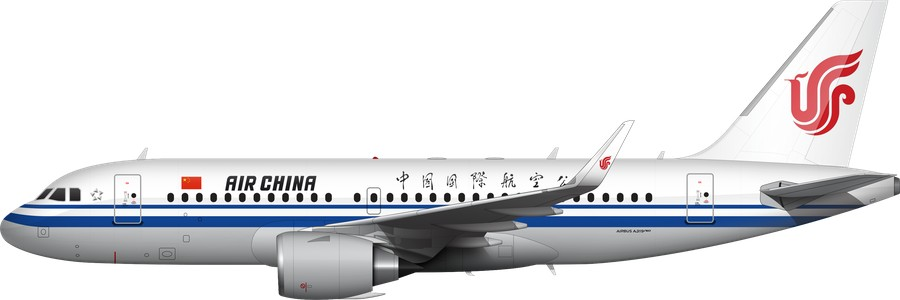
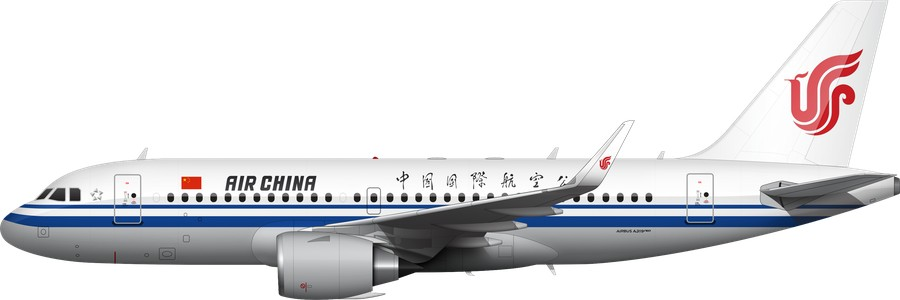
update overview

diff --git a/index.html b/index.html
@@ -38,7 +38,7 @@ button{font-family:inherit}.bar button{border:1px solid #bbb;background:#fff;bor
 <div class="card" data-key="Standard/Air China/Air China - 777-300ER" data-name="Air China 777-300ER" data-png="Liveries Done/Standard/Air China/Air China - 777-300ER/Air China_777-300ER.png" data-base="{&quot;status&quot;: &quot;完美&quot;, &quot;reason&quot;: &quot;&quot;, &quot;author&quot;: &quot;我們&quot;, &quot;note&quot;: &quot;&quot;}"><img loading="lazy" src="_work/overview_thumbs900/26700f4a390d.jpg?v=1795356114"><div class="t">777-300ER</div><span class="b"></span><span class="m r"></span><div class="m a"></div></div>
 <div class="card" data-key="Standard/Air China/Air China - 787-9" data-name="Air China 787-9" data-png="Liveries Done/Standard/Air China/Air China - 787-9/Air China_787-9.png" data-base="{&quot;status&quot;: &quot;完美&quot;, &quot;reason&quot;: &quot;&quot;, &quot;author&quot;: &quot;我們&quot;, &quot;note&quot;: &quot;&quot;}"><img loading="lazy" src="_work/overview_thumbs900/e3fb944b1b88.jpg?v=1795359505"><div class="t">787-9</div><span class="b"></span><span class="m r"></span><div class="m a"></div></div>
 <div class="card" data-key="Standard/Air China/Air China - A319" data-name="Air China A319" data-png="Liveries Done/Standard/Air China/Air China - A319/Air China_A319.png" data-base="{&quot;status&quot;: &quot;完美&quot;, &quot;reason&quot;: &quot;&quot;, &quot;author&quot;: &quot;我們&quot;, &quot;note&quot;: &quot;&quot;}"><img loading="lazy" src="_work/overview_thumbs900/897bd1e86140.jpg?v=1795389819"><div class="t">A319</div><span class="b"></span><span class="m r"></span><div class="m a"></div></div>
-<div class="card" data-key="Standard/Air China/Air China - A319neo" data-name="Air China A319neo" data-png="Liveries Done/Standard/Air China/Air China - A319neo/Air China_A319neo.png" data-base="{&quot;status&quot;: &quot;要處理&quot;, &quot;reason&quot;: &quot;gloss&quot;, &quot;author&quot;: &quot;我們&quot;, &quot;note&quot;: &quot;&quot;}"><img loading="lazy" src="_work/overview_thumbs900/ed9afbb7040e.jpg?v=1794734152"><div class="t">A319neo</div><span class="b"></span><span class="m r"></span><div class="m a"></div></div>
+<div class="card" data-key="Standard/Air China/Air China - A319neo" data-name="Air China A319neo" data-png="Liveries Done/Standard/Air China/Air China - A319neo/Air China_A319neo.png" data-base="{&quot;status&quot;: &quot;完美&quot;, &quot;reason&quot;: &quot;&quot;, &quot;author&quot;: &quot;我們&quot;, &quot;note&quot;: &quot;&quot;}"><img loading="lazy" src="_work/overview_thumbs900/ed9afbb7040e.jpg?v=1795428382"><div class="t">A319neo</div><span class="b"></span><span class="m r"></span><div class="m a"></div></div>
 <div class="card" data-key="Standard/Air China/Air China - A320" data-name="Air China A320" data-png="Liveries Done/Standard/Air China/Air China - A320/Air China_A320.png" data-base="{&quot;status&quot;: &quot;要處理&quot;, &quot;reason&quot;: &quot;gloss&quot;, &quot;author&quot;: &quot;我們&quot;, &quot;note&quot;: &quot;&quot;}"><img loading="lazy" src="_work/overview_thumbs900/9333b53215df.jpg?v=1794734152"><div class="t">A320</div><span class="b"></span><span class="m r"></span><div class="m a"></div></div>
 <div class="card" data-key="Standard/Air China/Air China - A320neo" data-name="Air China A320neo" data-png="Liveries Done/Standard/Air China/Air China - A320neo/Air China_A320neo.png" data-base="{&quot;status&quot;: &quot;要處理&quot;, &quot;reason&quot;: &quot;gloss&quot;, &quot;author&quot;: &quot;我們&quot;, &quot;note&quot;: &quot;&quot;}"><img loading="lazy" src="_work/overview_thumbs900/47404ba12896.jpg?v=1794734152"><div class="t">A320neo</div><span class="b"></span><span class="m r"></span><div class="m a"></div></div>
 <div class="card" data-key="Standard/Air China/Air China - A330-200" data-name="Air China A330-200" data-png="Liveries Done/Standard/Air China/Air China - A330-200/Air China_A330-200.png" data-base="{&quot;status&quot;: &quot;完美&quot;, &quot;reason&quot;: &quot;&quot;, &quot;author&quot;: &quot;我們&quot;, &quot;note&quot;: &quot;&quot;}"><img loading="lazy" src="_work/overview_thumbs900/a55ab26c092e.jpg?v=1795346998"><div class="t">A330-200</div><span class="b"></span><span class="m r"></span><div class="m a"></div></div>
